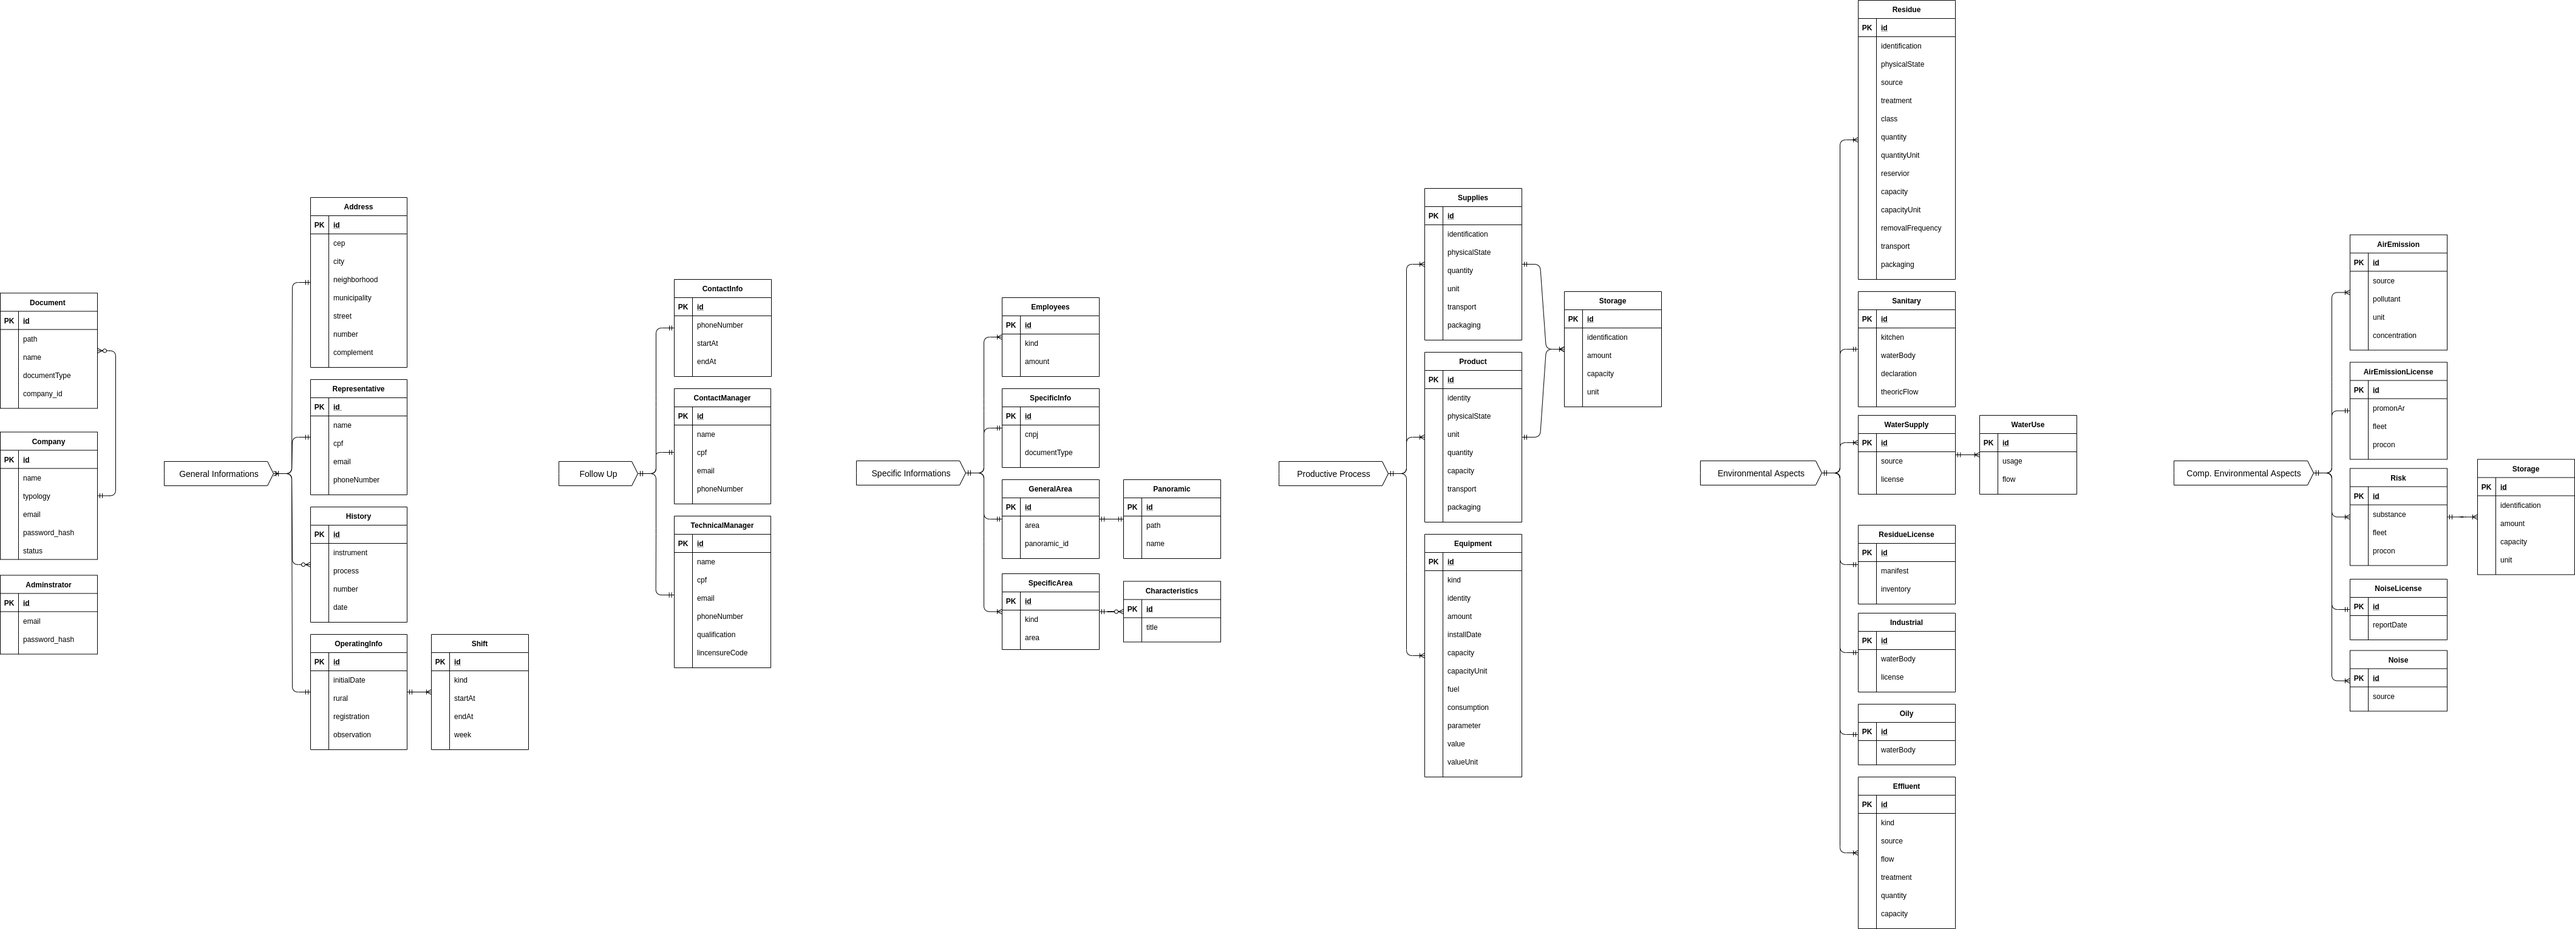
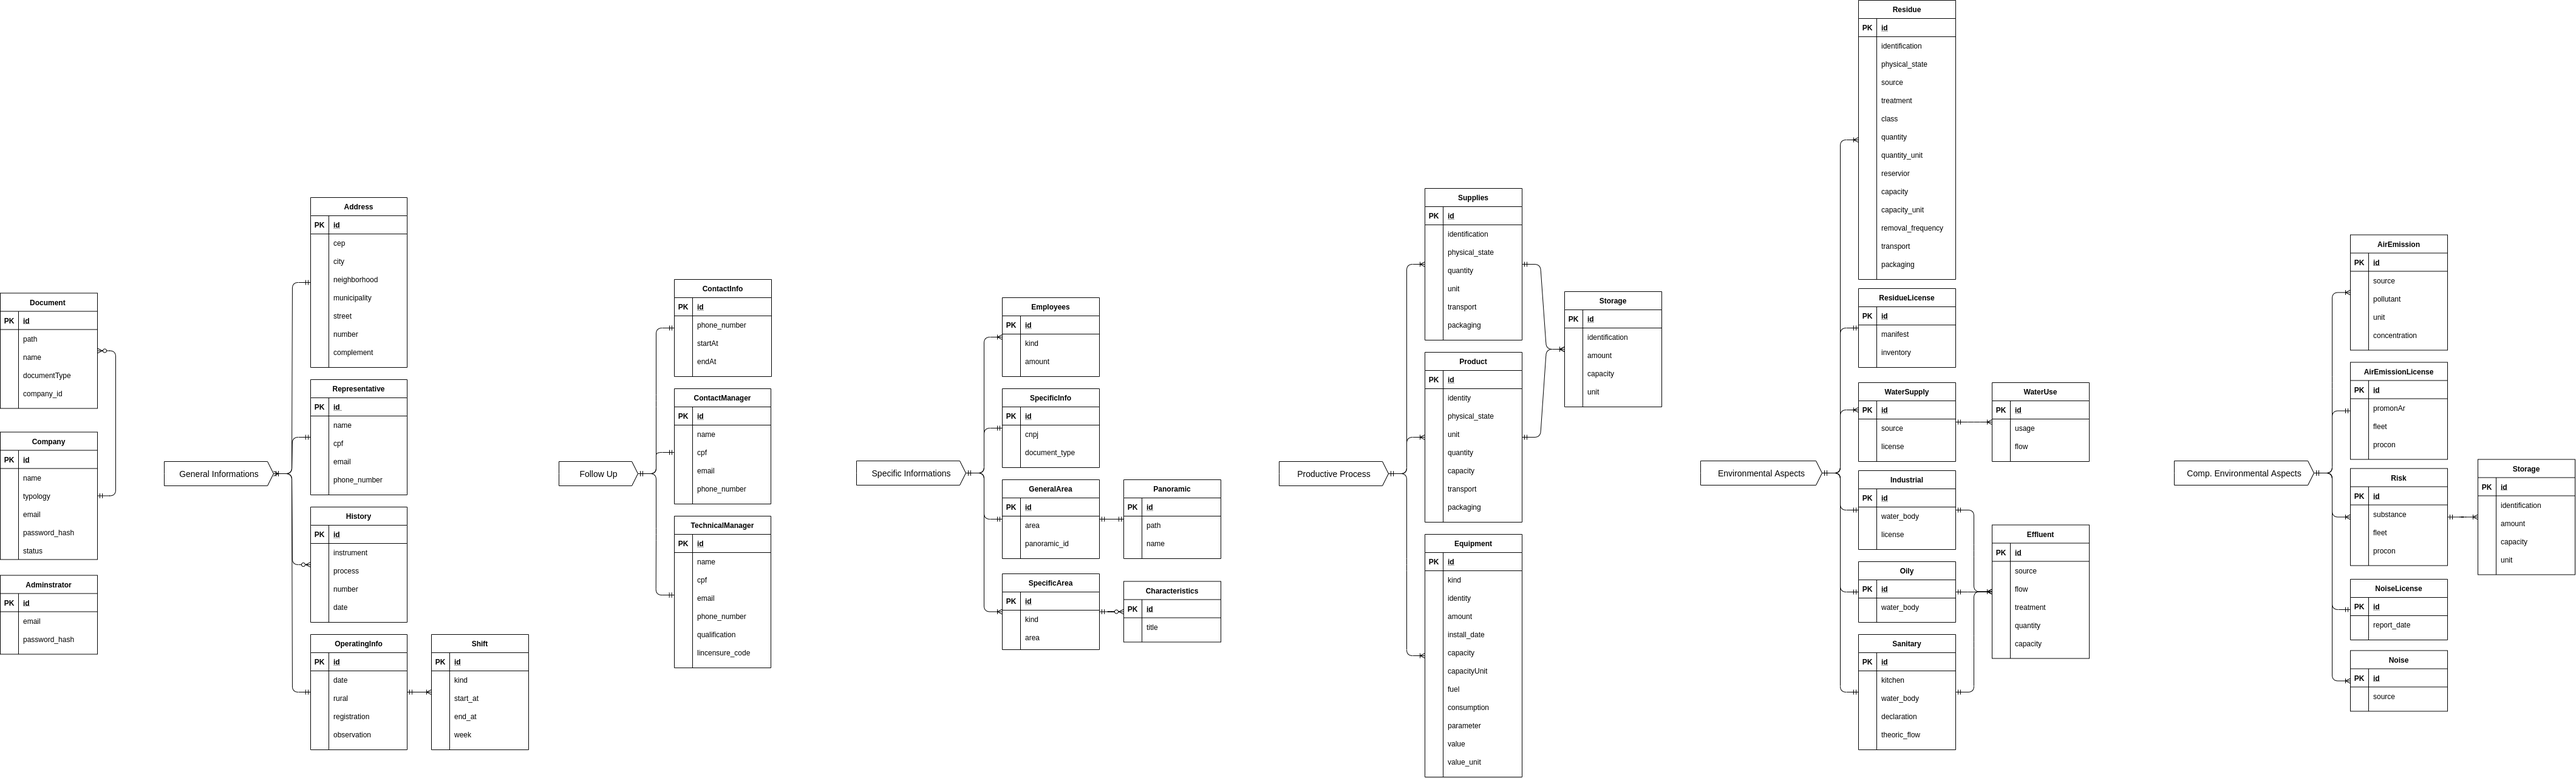
Criação e Alteração de Responsavel Tecnico

diff --git a/backend/src/app/controllers/TechnicalManagerController.js b/backend/src/app/controllers/TechnicalManagerController.js
@@ -1,0 +1,79 @@
+import * as Yup from 'yup';
+import Company from '../models/Company';
+import TechnicalManager from '../models/TechnicalManager';
+
+class TechnicalManagerController {
+  async store(req, res) {
+    const schema = Yup.object().shape({
+      name: Yup.string().required(),
+      cpf: Yup.string().required(),
+      email: Yup.string().email().required(),
+      phone_number: Yup.string().required(),
+      qualification: Yup.string().required(),
+      licensure_code: Yup.string().required(),
+    });
+
+    if (!(await schema.isValid(req.body))) {
+      return res.status(400).json({ error: 'Falha na validação dos dados.' });
+    }
+
+    const companyExists = await Company.findByPk(req.companyId);
+
+    if (!companyExists) {
+      return res
+        .status(400)
+        .json({ error: 'Essa empresa não está registrada' });
+    }
+
+    const technicalManager = await TechnicalManager.findOne({
+      where: { company_id: req.companyId },
+    });
+
+    if (technicalManager) {
+      const {
+        id,
+        name,
+        email,
+        cpf,
+        phone_number,
+        qualification,
+        licensure_code,
+      } = await technicalManager.update(req.body);
+
+      return res.json({
+        id,
+        name,
+        email,
+        cpf,
+        phone_number,
+        qualification,
+        licensure_code,
+      });
+    }
+
+    const {
+      id,
+      name,
+      email,
+      cpf,
+      phone_number,
+      qualification,
+      licensure_code,
+    } = await TechnicalManager.create({
+      ...req.body,
+      company_id: req.companyId,
+    });
+
+    return res.json({
+      id,
+      name,
+      email,
+      cpf,
+      phone_number,
+      qualification,
+      licensure_code,
+    });
+  }
+}
+
+export default new TechnicalManagerController();

diff --git a/backend/src/database/migrations/20200907204632-create-technical-managers.js b/backend/src/database/migrations/20200907204632-create-technical-managers.js
@@ -1,0 +1,55 @@
+module.exports = {
+  up: (queryInterface, Sequelize) => {
+    return queryInterface.createTable('technical_managers', {
+      id: {
+        type: Sequelize.INTEGER,
+        allowNull: false,
+        autoIncrement: true,
+        primaryKey: true,
+      },
+      name: {
+        type: Sequelize.STRING,
+        allowNull: false,
+      },
+      cpf: {
+        type: Sequelize.STRING,
+        allowNull: false,
+      },
+      email: {
+        type: Sequelize.STRING,
+        allowNull: false,
+      },
+      phone_number: {
+        type: Sequelize.STRING,
+        allowNull: false,
+      },
+      qualification: {
+        type: Sequelize.STRING,
+        allowNull: false,
+      },
+      licensure_code: {
+        type: Sequelize.STRING,
+        allowNull: false,
+      },
+      company_id: {
+        type: Sequelize.INTEGER,
+        references: { model: 'companies', key: 'id' },
+        onUpdate: 'CASCADE',
+        onDelete: 'CASCADE',
+        allowNull: false,
+      },
+      created_at: {
+        type: Sequelize.DATE,
+        allowNull: false,
+      },
+      updated_at: {
+        type: Sequelize.DATE,
+        allowNull: false,
+      },
+    });
+  },
+
+  down: (queryInterface) => {
+    return queryInterface.dropTable('technical_managers');
+  },
+};

diff --git a/backend/src/routes.js b/backend/src/routes.js
@@ -13,6 +13,7 @@ import GeneralInfoController from './app/controllers/GeneralInfoController';
 
 import ContactInfoController from './app/controllers/ContactInfoController';
 import ContactManagerController from './app/controllers/ContactManagerController';
+import TechnicalManagerController from './app/controllers/TechnicalManagerController';
 
 const routes = new Router();
 
@@ -33,5 +34,10 @@ routes.get('/general-info', authMiddleware, GeneralInfoController.index);
 
 routes.post('/contact-info', authMiddleware, ContactInfoController.store);
 routes.post('/contact-manager', authMiddleware, ContactManagerController.store);
+routes.post(
+  '/technical-manager',
+  authMiddleware,
+  TechnicalManagerController.store
+);
 
 export default routes;

diff --git a/backend/src/app/models/TechnicalManager.js b/backend/src/app/models/TechnicalManager.js
@@ -1,0 +1,30 @@
+import Sequelize, { Model } from 'sequelize';
+
+class TechnicalManager extends Model {
+  static init(sequelize) {
+    super.init(
+      {
+        name: Sequelize.STRING,
+        email: Sequelize.STRING,
+        cpf: Sequelize.STRING,
+        phone_number: Sequelize.STRING,
+        qualification: Sequelize.STRING,
+        licensure_code: Sequelize.STRING,
+      },
+      {
+        sequelize,
+      }
+    );
+
+    return this;
+  }
+
+  static associate(models) {
+    this.belongsTo(models.Company, {
+      foreignKey: 'company_id',
+      as: 'company',
+    });
+  }
+}
+
+export default TechnicalManager;

diff --git a/backend/src/database/index.js b/backend/src/database/index.js
@@ -9,6 +9,7 @@ import History from '../app/models/History';
 import Shift from '../app/models/Shift';
 import ContactInfo from '../app/models/ContactInfo';
 import ContactManager from '../app/models/ContactManager';
+import TechnicalManager from '../app/models/TechnicalManager';
 
 import databaseConfig from '../config/database';
 
@@ -23,6 +24,7 @@ const models = [
   Shift,
   ContactInfo,
   ContactManager,
+  TechnicalManager,
 ];
 
 class Database {
